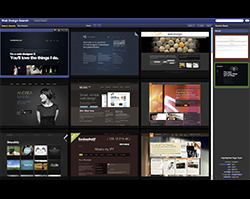
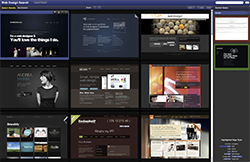
Editing some thumbnail heights, playing around with spacing.

diff --git a/_includes/publications.html b/_includes/publications.html
@@ -5,7 +5,7 @@
 	<div class='row pub'>
 
 		{% assign linktypes = pub.links | map: 'type' | join ' ' %}
-		
+
 		{% capture pdflink %}
 			{% if linktypes contains 'pdf' %}
 				{% assign pdflink = (pub.links | where: 'type','pdf')[0] %}
@@ -17,9 +17,9 @@
 			{% endif %}
 		{% endcapture %}
 
-		<div class='col-lg-3 col-md-4 col-xs-4 pubimagesection '>
+		<div class='col-lg-3 col-md-4 col-xs-5 pubimagesection'>
 			{% capture imagehtml %}
-				<img class='pubimage' 'img' 'img-responsive' src='img/pubthumbs/{{ pub.id }}.png' width='250'/>
+				<img class='pubimage img img-responsive' src='img/pubthumbs/{{ pub.id }}.png' width='200'/>
 			{% endcapture %}
 
 			{% if linktypes contains 'pdf' %}
@@ -29,7 +29,7 @@
 			{% endif %}
 		</div>
 
-		<div class='col-lg-9 col-md-8 col-xs-8 pubtextsection '>
+		<div class='col-lg-9 col-md-8 col-xs-7 pubtextsection'>
 
 			<div class='pubtitle'>
 				{% if linktypes contains 'pdf' %}

diff --git a/css/style.css b/css/style.css
@@ -3,7 +3,6 @@
 }
 
 .pubtextsection {
-	margin-left: -8px;
 	padding-left: 0px;
 }
 
